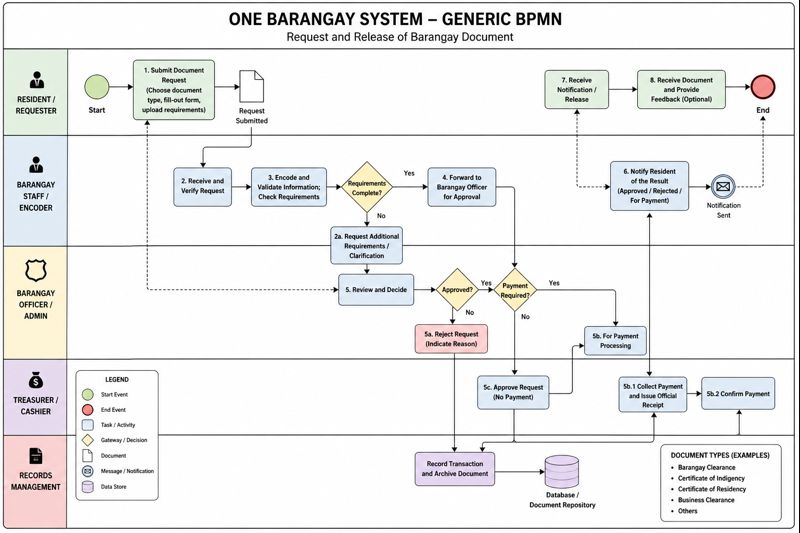
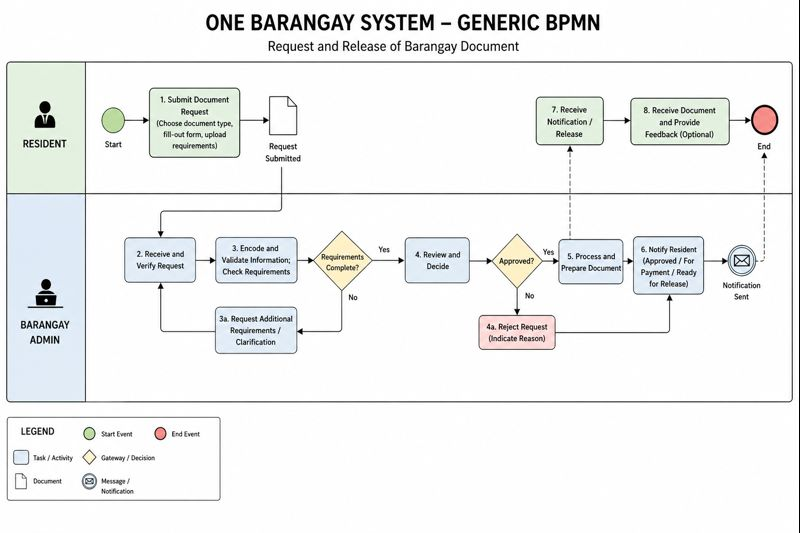
dis

diff --git a/index.html b/index.html
@@ -347,8 +347,8 @@
       <div class="columns is-variable is-5 is-vcentered">
         <div class="column is-4">
           <p>
-            Request flow: Resident submits a certificate request, system validates data, staff reviews submission, then approval or rejection is issued.
-            Approved requests move to certificate generation and release notification.
+            This BPMN diagram shows the Barangay Document Request process in the One Barangay System with two actors: Resident and Barangay Admin.
+The process starts when the resident submits a request and uploads requirements. The barangay admin verifies the request, checks completeness, and decides to approve or reject. If approved, the admin prepares the document and notifies the resident for release. The process ends when the resident receives the document.
           </p>
           <div class="actor-chips">
             <span>Resident</span>
